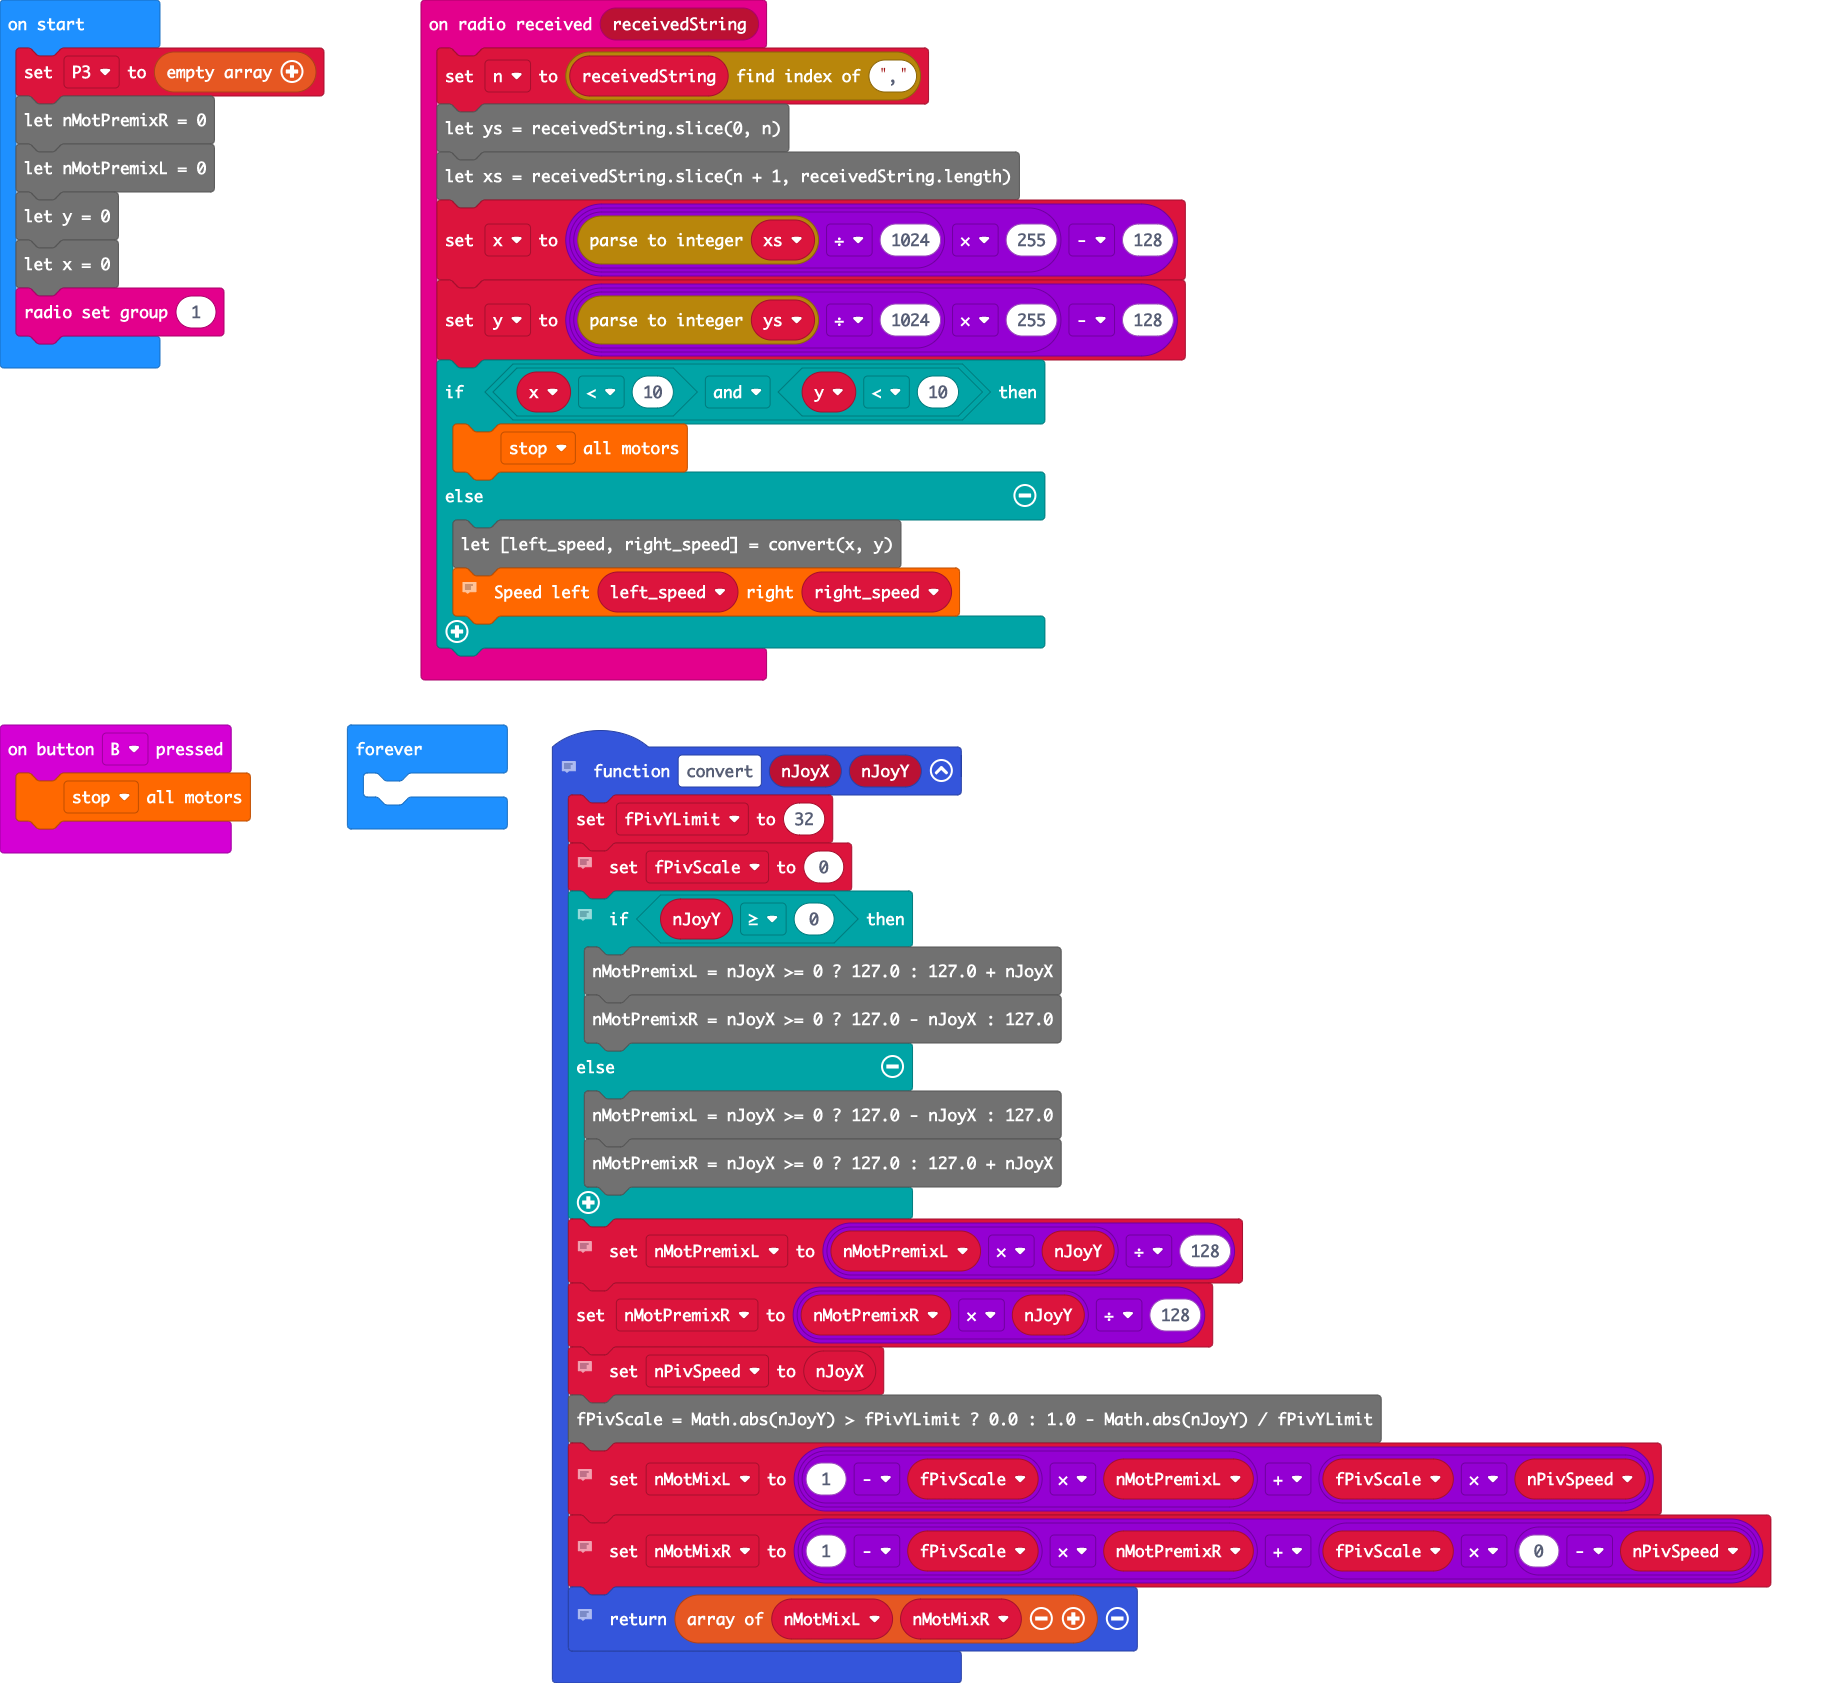
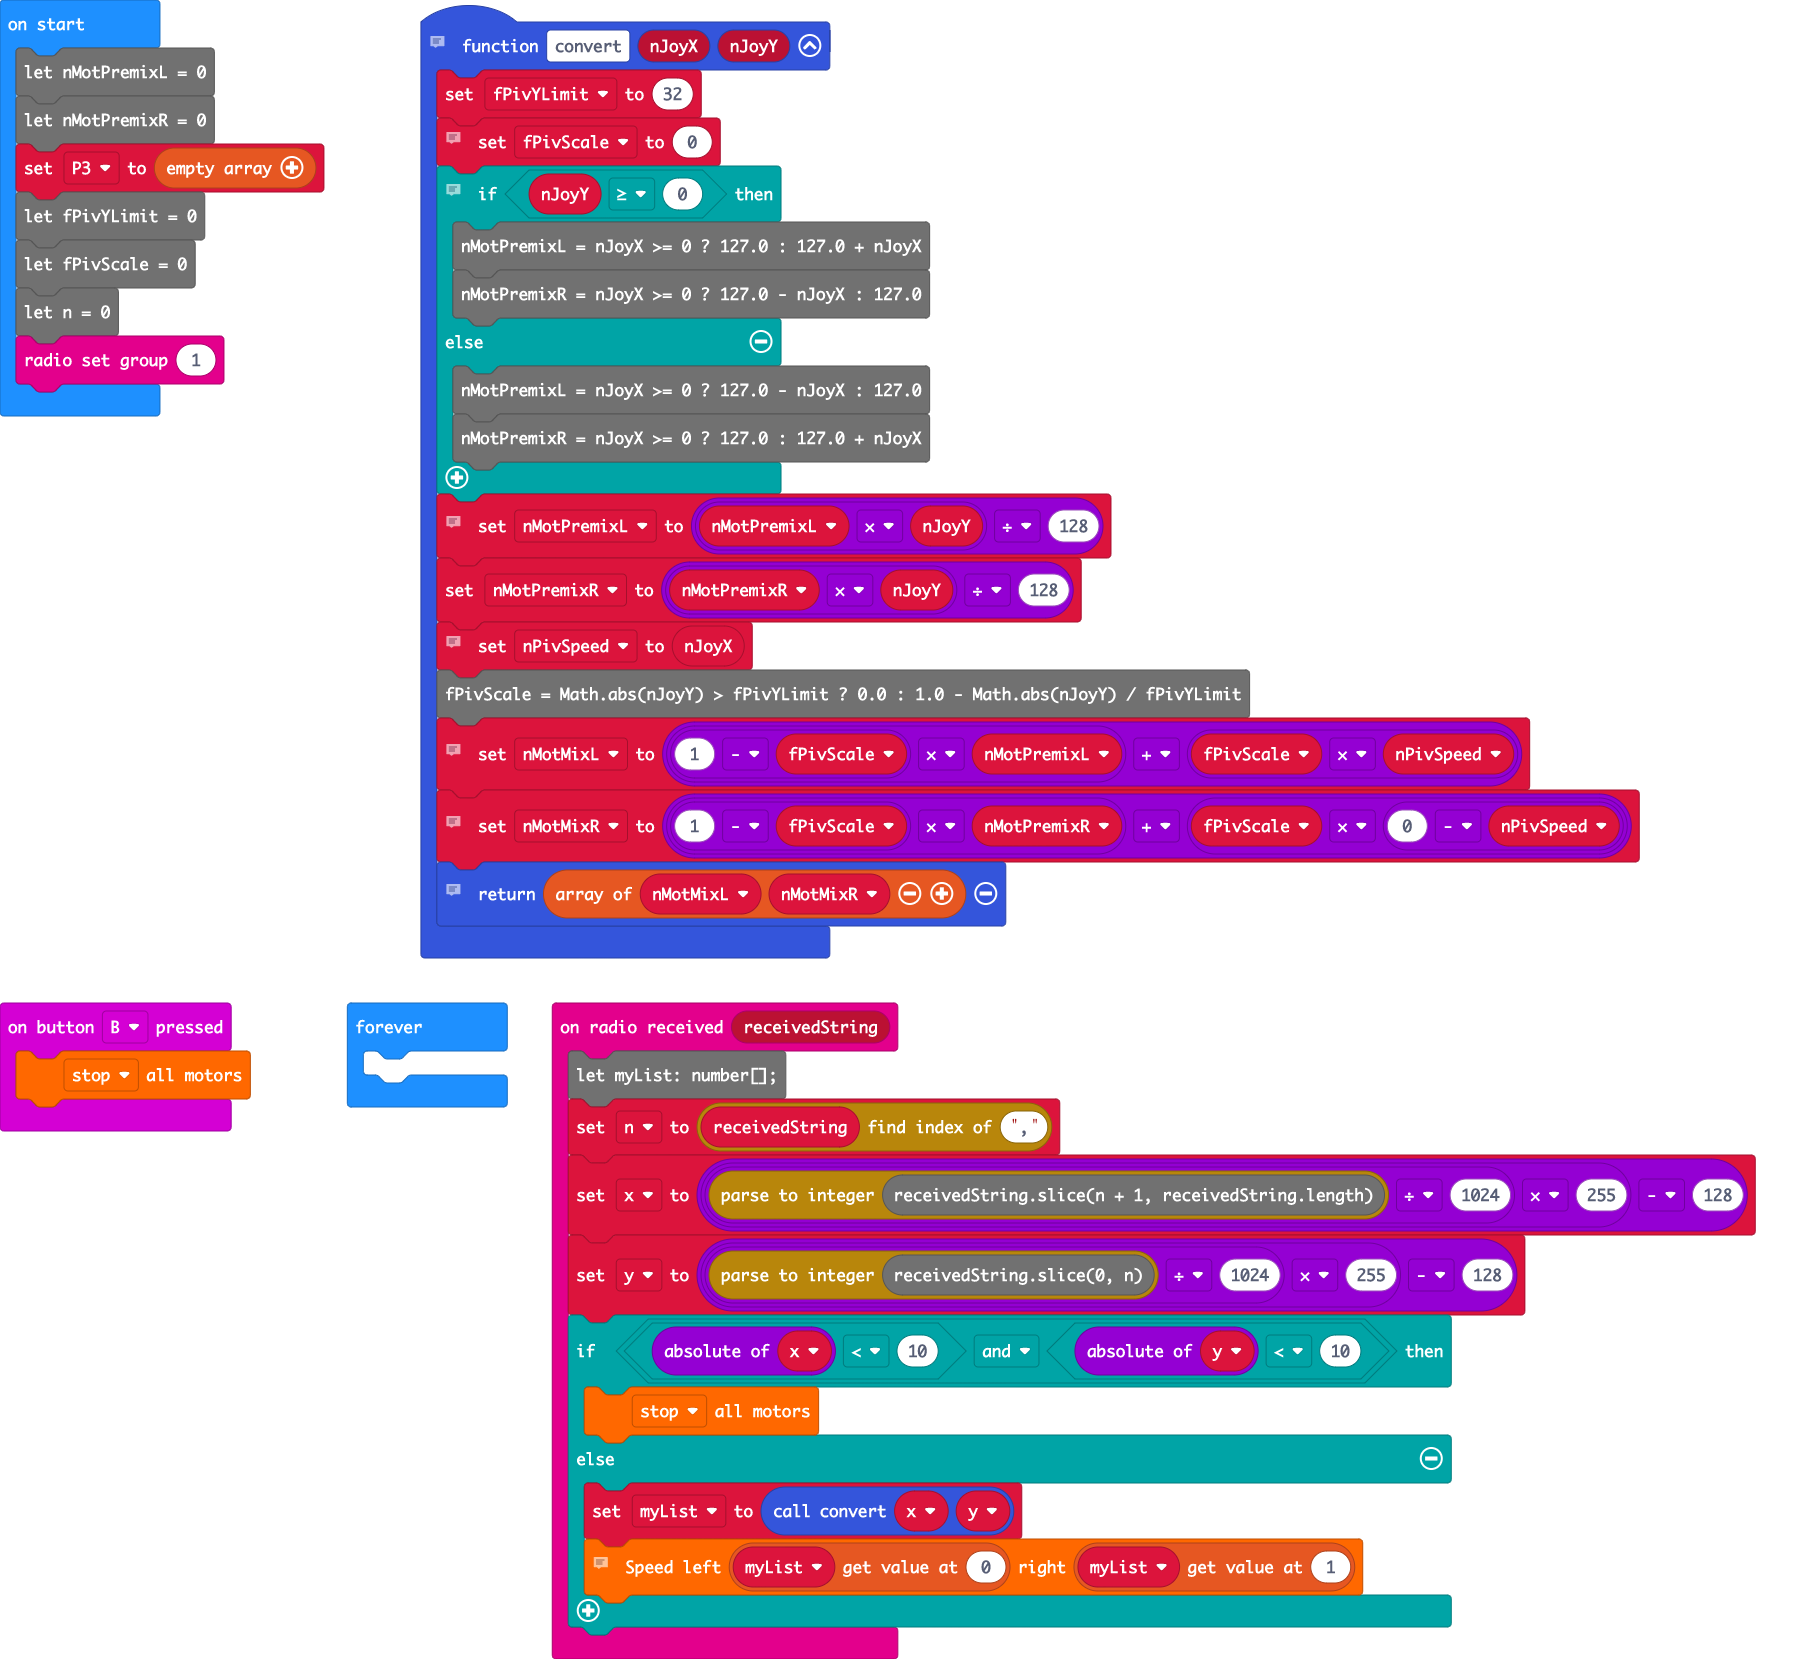
lists are strange

diff --git a/main.ts b/main.ts
@@ -1,64 +1,68 @@
+//  basic.show_number(nJoyY)
+//  TEMP VARIABLES
+//  Motor (left)  premixed output        (-128..+127)
+//  Motor (right) premixed output        (-128..+127)
+function convert(nJoyX: number, nJoyY: number): number[] {
+    
+    fPivYLimit = 32
+    //  Pivot Speed                          (-128..+127)
+    fPivScale = 0
+    //  Balance scale b/w drive and pivot    (   0..1   )
+    //  Calculate Drive Turn output due to Joystick X input
+    if (nJoyY >= 0) {
+        nMotPremixL = nJoyX >= 0 ? 127.0 : 127.0 + nJoyX
+        nMotPremixR = nJoyX >= 0 ? 127.0 - nJoyX : 127.0
+    } else {
+        nMotPremixL = nJoyX >= 0 ? 127.0 - nJoyX : 127.0
+        nMotPremixR = nJoyX >= 0 ? 127.0 : 127.0 + nJoyX
+    }
+    
+    //  Scale Drive output due to Joystick Y input (throttle)
+    nMotPremixL = nMotPremixL * nJoyY / 128
+    nMotPremixR = nMotPremixR * nJoyY / 128
+    //  Now calculate pivot amount
+    //  - Strength of pivot (nPivSpeed) based on Joystick X input
+    //  - Blending of pivot vs drive (fPivScale) based on Joystick Y input
+    nPivSpeed = nJoyX
+    fPivScale = Math.abs(nJoyY) > fPivYLimit ? 0.0 : 1.0 - Math.abs(nJoyY) / fPivYLimit
+    //  Calculate final mix of Drive and Pivot
+    nMotMixL = (1 - fPivScale) * nMotPremixL + fPivScale * nPivSpeed
+    //  Motor (left)  mixed output           (-128..+127)
+    nMotMixR = (1 - fPivScale) * nMotPremixR + fPivScale * (0 - nPivSpeed)
+    //  Motor (right) mixed output           (-128..+127)
+    return [nMotMixL, nMotMixR]
+}
+
 radio.onReceivedString(function on_received_string(receivedString: string) {
-    let n = receivedString.indexOf(",")
-    let x = 0
-    let y = 0
-    let ys = receivedString.slice(0, n)
-    let xs = receivedString.slice(n + 1, receivedString.length)
-    x = parseInt(xs) / 1024 * 255 - 128
-    y = parseInt(ys) / 1024 * 255 - 128
+    let myList: number[];
+    
+    n = receivedString.indexOf(",")
+    x = parseInt(receivedString.slice(n + 1, receivedString.length)) / 1024 * 255 - 128
+    y = parseInt(receivedString.slice(0, n)) / 1024 * 255 - 128
     if (Math.abs(x) < 10 && Math.abs(y) < 10) {
         Rover.MotorStopAll(MotorActions.Stop)
     } else {
-        let [left_speed, right_speed] = convert(x, y)
-        // basic.show_number(left_speed)
-        Rover.MotorRunDual(left_speed, right_speed)
+        myList = convert(x, y)
+        //  basic.show_number(left_speed)
+        Rover.MotorRunDual(myList[0], myList[1])
     }
     
 })
 input.onButtonPressed(Button.B, function on_button_pressed_b() {
     Rover.MotorStopAll(MotorActions.Stop)
 })
-let P3 : string[] = []
+let y = 0
+let x = 0
+let nMotMixR = 0
+let nMotMixL = 0
+let nPivSpeed = 0
+let nMotPremixL = 0
+let nMotPremixR = 0
+let P3 : number[] = []
+let fPivYLimit = 0
+let fPivScale = 0
+let n = 0
 radio.setGroup(1)
 basic.forever(function on_forever() {
     
 })
-function convert(nJoyX: number, nJoyY: number) {
-    let fPivYLimit = 32.0
-    // basic.show_number(nJoyY)
-    //  TEMP VARIABLES
-    let nMotPremixL = 0
-    //  Motor (left)  premixed output        (-128..+127)
-    let nMotPremixR = 0
-    //  Motor (right) premixed output        (-128..+127)
-    let nPivSpeed = 0
-    //  Pivot Speed                          (-128..+127)
-    let fPivScale = 0.0
-    //  Balance scale b/w drive and pivot    (   0..1   )
-    //  Calculate Drive Turn output due to Joystick X input
-    if (nJoyY >= 0) {
-        //  Forward
-        nMotPremixL = nJoyX >= 0 ? 127.0 : 127.0 + nJoyX
-        nMotPremixR = nJoyX >= 0 ? 127.0 - nJoyX : 127.0
-    } else {
-        //  Reverse
-        nMotPremixL = nJoyX >= 0 ? 127.0 - nJoyX : 127.0
-        nMotPremixR = nJoyX >= 0 ? 127.0 : 127.0 + nJoyX
-    }
-    
-    //  Scale Drive output due to Joystick Y input (throttle)
-    nMotPremixL = nMotPremixL * nJoyY / 128.0
-    nMotPremixR = nMotPremixR * nJoyY / 128.0
-    //  Now calculate pivot amount
-    //   - Strength of pivot (nPivSpeed) based on Joystick X input
-    //   - Blending of pivot vs drive (fPivScale) based on Joystick Y input
-    nPivSpeed = nJoyX
-    fPivScale = Math.abs(nJoyY) > fPivYLimit ? 0.0 : 1.0 - Math.abs(nJoyY) / fPivYLimit
-    //  Calculate final mix of Drive and Pivot
-    let nMotMixL = (1.0 - fPivScale) * nMotPremixL + fPivScale * nPivSpeed
-    //  Motor (left)  mixed output           (-128..+127)
-    let nMotMixR = (1.0 - fPivScale) * nMotPremixR + fPivScale * -nPivSpeed
-    //  Motor (right) mixed output           (-128..+127)
-    return [nMotMixL, nMotMixR]
-}
-

diff --git a/main.py b/main.py
@@ -1,67 +1,65 @@
+# basic.show_number(nJoyY)
+# TEMP VARIABLES
+# Motor (left)  premixed output        (-128..+127)
+# Motor (right) premixed output        (-128..+127)
+def convert(nJoyX: number, nJoyY: number):
+    global fPivYLimit, fPivScale, nMotPremixL, nMotPremixR, nPivSpeed, nMotMixL, nMotMixR
+    fPivYLimit = 32
+    # Pivot Speed                          (-128..+127)
+    fPivScale = 0
+    # Balance scale b/w drive and pivot    (   0..1   )
+    # Calculate Drive Turn output due to Joystick X input
+    if nJoyY >= 0:
+        nMotPremixL = 127.0 if nJoyX >= 0 else 127.0 + nJoyX
+        nMotPremixR = 127.0 - nJoyX if nJoyX >= 0 else 127.0
+    else:
+        nMotPremixL = 127.0 - nJoyX if nJoyX >= 0 else 127.0
+        nMotPremixR = 127.0 if nJoyX >= 0 else 127.0 + nJoyX
+    # Scale Drive output due to Joystick Y input (throttle)
+    nMotPremixL = nMotPremixL * nJoyY / 128
+    nMotPremixR = nMotPremixR * nJoyY / 128
+    # Now calculate pivot amount
+    # - Strength of pivot (nPivSpeed) based on Joystick X input
+    # - Blending of pivot vs drive (fPivScale) based on Joystick Y input
+    nPivSpeed = nJoyX
+    fPivScale = 0.0 if abs(nJoyY) > fPivYLimit else 1.0 - abs(nJoyY) / fPivYLimit
+    # Calculate final mix of Drive and Pivot
+    nMotMixL = (1 - fPivScale) * nMotPremixL + fPivScale * nPivSpeed
+    # Motor (left)  mixed output           (-128..+127)
+    nMotMixR = (1 - fPivScale) * nMotPremixR + fPivScale * (0 - nPivSpeed)
+    # Motor (right) mixed output           (-128..+127)
+    return [nMotMixL, nMotMixR]
+
 def on_received_string(receivedString):
+    global n, x, y
     n = receivedString.index_of(",")
-
-    x = 0
-    y = 0
-    ys = receivedString[0:n]
-    xs = receivedString[n+1:receivedString.length]
-
-    x = int(xs) / 1024 * 255 - 128
-    y = int(ys) / 1024 * 255 - 128
-
-
-    if(abs(x) < 10 and abs(y) < 10):
+    x = int(receivedString.slice(n + 1, len(receivedString))) / 1024 * 255 - 128
+    y = int(receivedString.slice(0, n)) / 1024 * 255 - 128
+    if abs(x) < 10 and abs(y) < 10:
         Rover.motor_stop_all(MotorActions.STOP)
     else:
-        (left_speed, right_speed) = convert(x,y)
-        #basic.show_number(left_speed)
-        Rover.motor_run_dual(left_speed, right_speed)
-
+        myList = convert(x, y)
+        # basic.show_number(left_speed)
+        Rover.motor_run_dual(myList[0], myList[1])
 radio.on_received_string(on_received_string)
 
 def on_button_pressed_b():
     Rover.motor_stop_all(MotorActions.STOP)
 input.on_button_pressed(Button.B, on_button_pressed_b)
 
-P3: List[str] = []
+y = 0
+x = 0
+nMotMixR = 0
+nMotMixL = 0
+nPivSpeed = 0
+nMotPremixL = 0
+nMotPremixR = 0
+P3: List[number] = []
+fPivYLimit = 0
+fPivScale = 0
+n = 0
 radio.set_group(1)
 
 def on_forever():
     pass
 basic.forever(on_forever)
-
-
-def convert(nJoyX, nJoyY):
-    fPivYLimit = 32.0
-
-    #basic.show_number(nJoyY)
-    # TEMP VARIABLES
-    nMotPremixL = 0 # Motor (left)  premixed output        (-128..+127)
-    nMotPremixR = 0 # Motor (right) premixed output        (-128..+127)
-    nPivSpeed = 0   # Pivot Speed                          (-128..+127)
-    fPivScale = 0.0 # Balance scale b/w drive and pivot    (   0..1   )
-
-    # Calculate Drive Turn output due to Joystick X input
-    if(nJoyY>=0):
-        # Forward
-        nMotPremixL = 127.0 if nJoyX>=0 else 127.0 + nJoyX
-        nMotPremixR = 127.0 - nJoyX if nJoyX>=0 else 127.0
-    else:
-        # Reverse
-        nMotPremixL = 127.0 - nJoyX if nJoyX>=0 else 127.0
-        nMotPremixR = 127.0 if nJoyX>=0 else 127.0 + nJoyX
-
-    # Scale Drive output due to Joystick Y input (throttle)
-    nMotPremixL = nMotPremixL * nJoyY/128.0
-    nMotPremixR = nMotPremixR * nJoyY/128.0
-
-    # Now calculate pivot amount
-    #  - Strength of pivot (nPivSpeed) based on Joystick X input
-    #  - Blending of pivot vs drive (fPivScale) based on Joystick Y input
-    nPivSpeed = nJoyX
-    fPivScale = 0.0 if abs(nJoyY)>fPivYLimit else 1.0-abs(nJoyY)/fPivYLimit
-
-    # Calculate final mix of Drive and Pivot
-    nMotMixL = (1.0-fPivScale)*nMotPremixL + fPivScale*( nPivSpeed) # Motor (left)  mixed output           (-128..+127)
-    nMotMixR = (1.0-fPivScale)*nMotPremixR + fPivScale*(-nPivSpeed) # Motor (right) mixed output           (-128..+127)
-    return (nMotMixL, nMotMixR)
